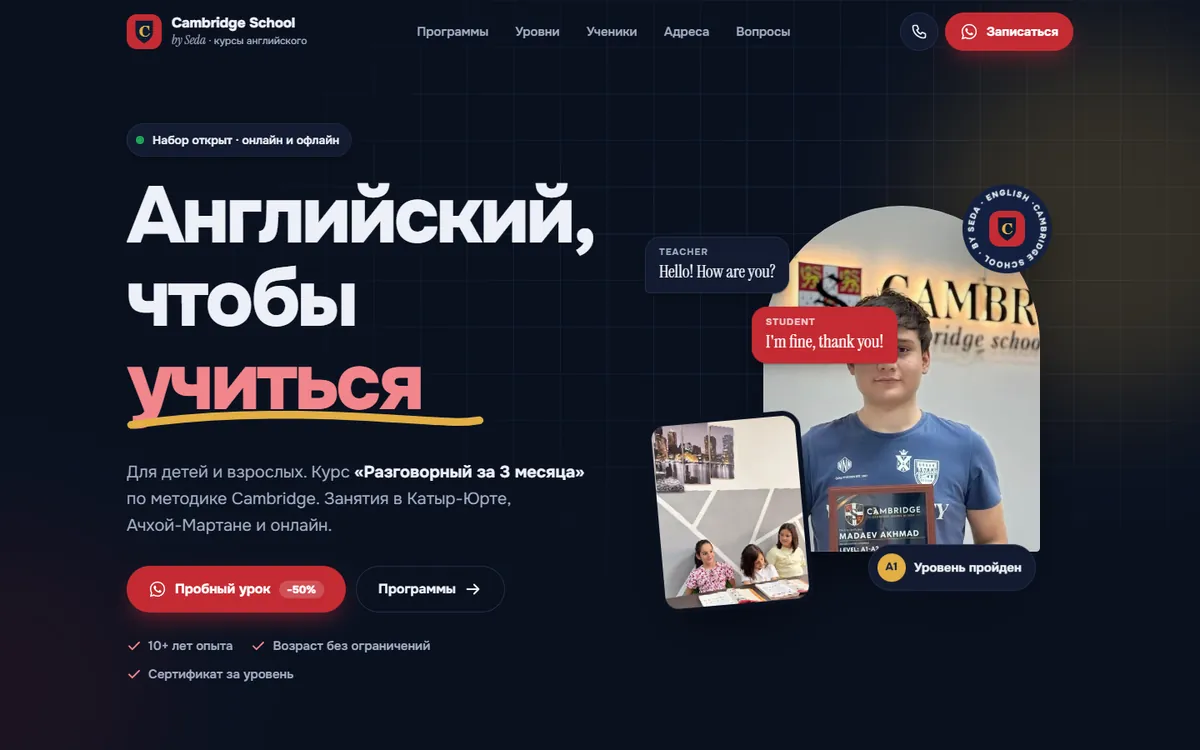
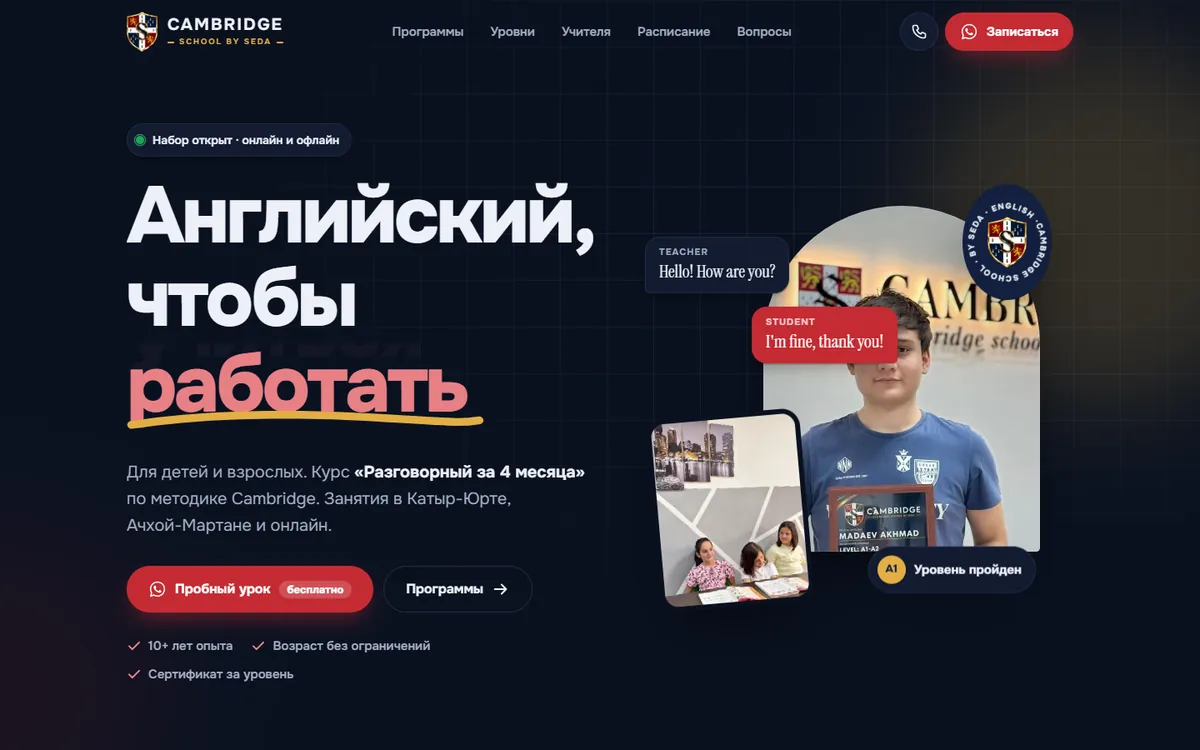
Cambridge: новые снимки с логотипом школы

diff --git a/index.html b/index.html
@@ -458,11 +458,12 @@ footer .wrap { display: flex; flex-wrap: wrap; justify-content: space-between; g
           <div>
             <span class="num"></span><span class="tag">Сайт школы</span>
             <h3>Cambridge School by Seda</h3>
-            <p>Сайт курсов английского для детей и взрослых. Записывает на пробный урок прямо в WhatsApp.</p>
+            <p>Сайт курсов английского для детей и взрослых. Записывает на бесплатный пробный урок прямо в WhatsApp.</p>
             <ul>
               <li>Анимация: живой чат на английском и путь ученика по уровням</li>
               <li>Запись на пробный урок уходит в WhatsApp</li>
-              <li>Два адреса и онлайн, настроен для поиска</li>
+              <li>Расписание двух классов, учителя и отзывы родителей</li>
+              <li>Логотип школы, настроен для поиска</li>
             </ul>
             <div class="go">
               <a class="btn" href="https://xasi88.github.io/cambridge-grozny/" target="_blank" rel="noopener">Открыть сайт <span aria-hidden="true">&#8599;</span></a>
